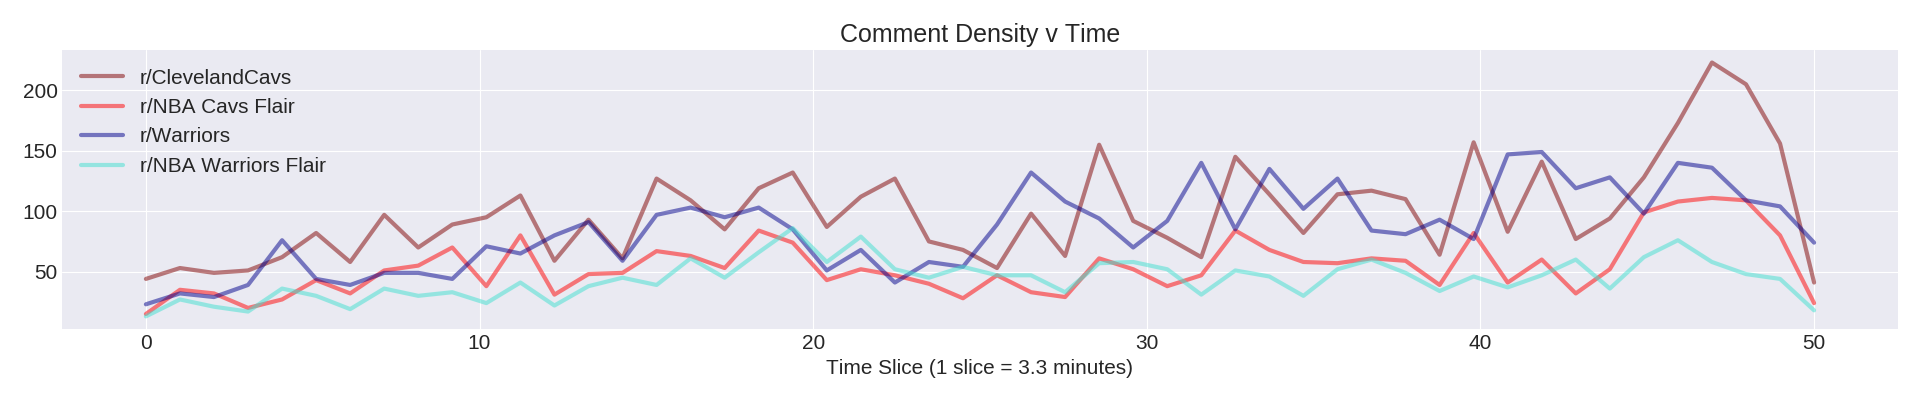
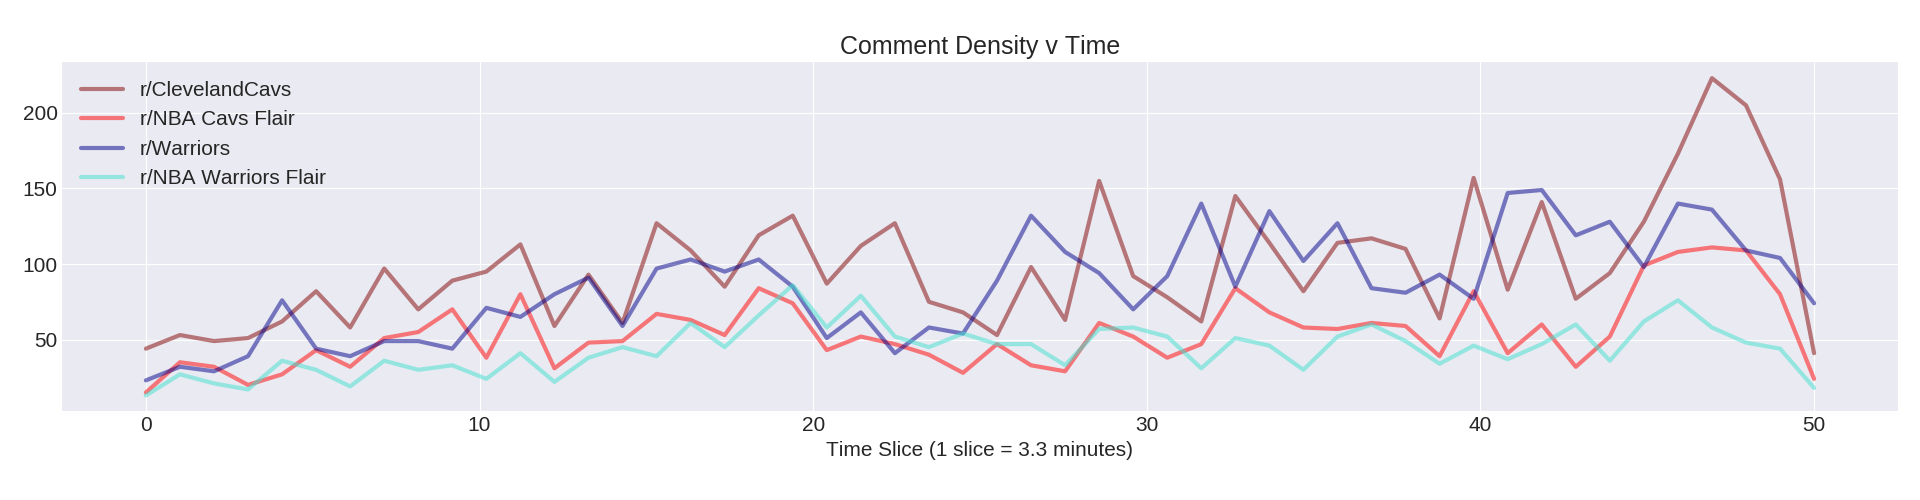
made plot fonts larger pt2

diff --git a/src/SentimentScoreCommentDensityOverlap.py b/src/SentimentScoreCommentDensityOverlap.py
@@ -75,5 +75,5 @@ def plot_density():
     plt.show()
 
 if __name__ == "__main__":
-    plot_sentiment()
-    # plot_density()
+    # plot_sentiment()
+    plot_density()
